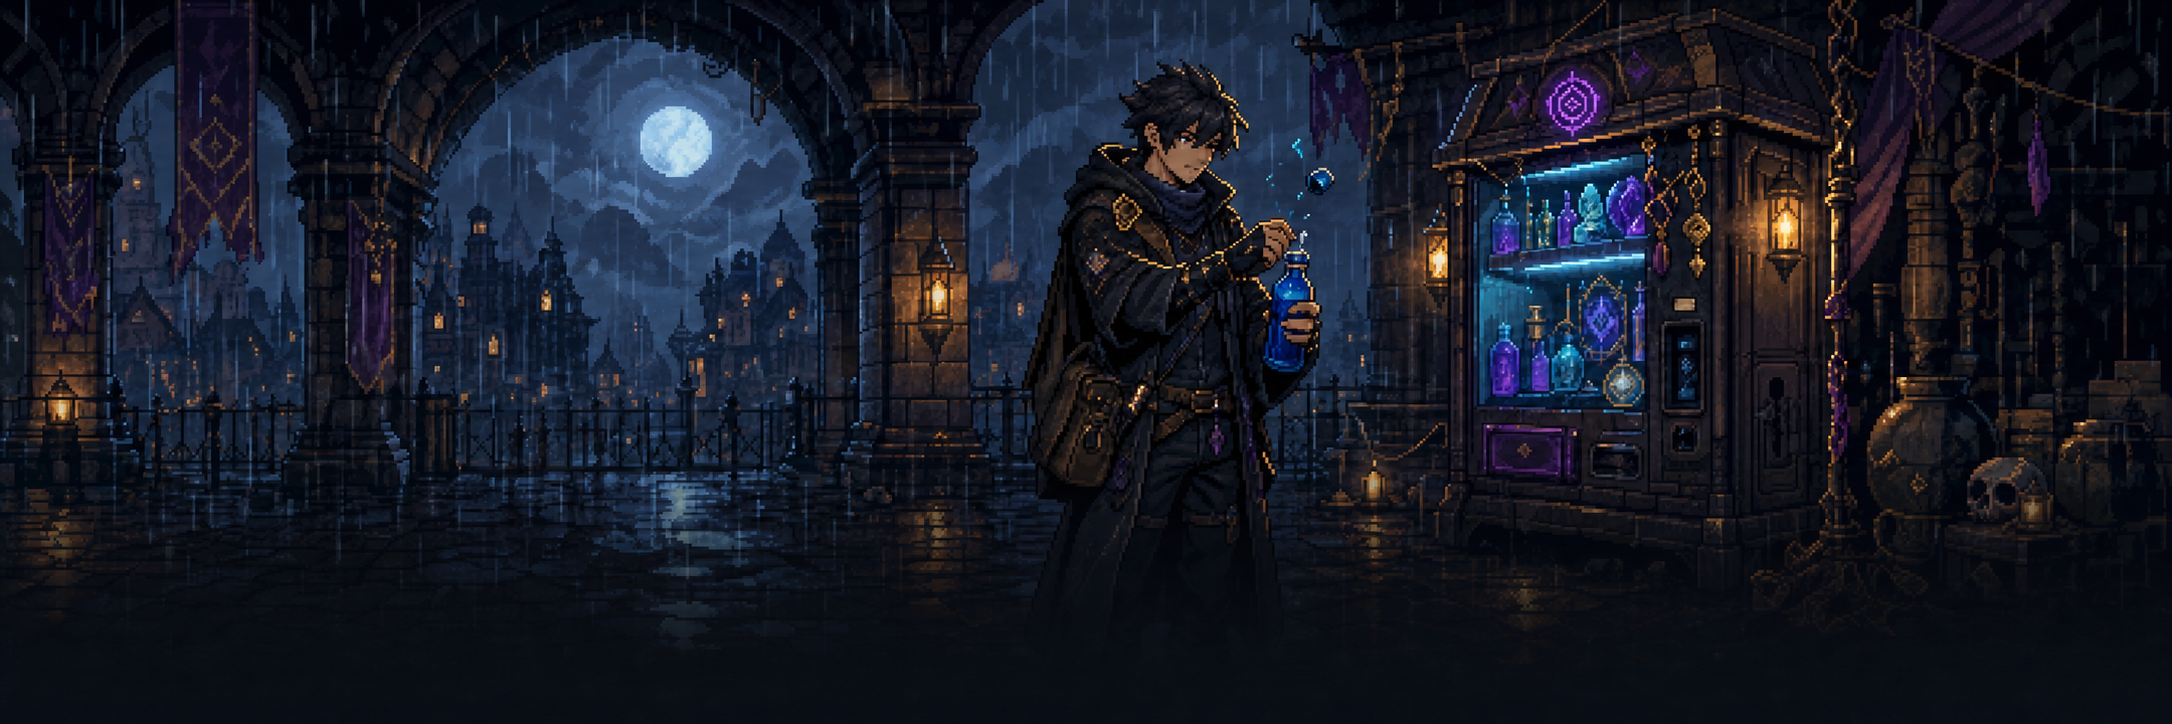
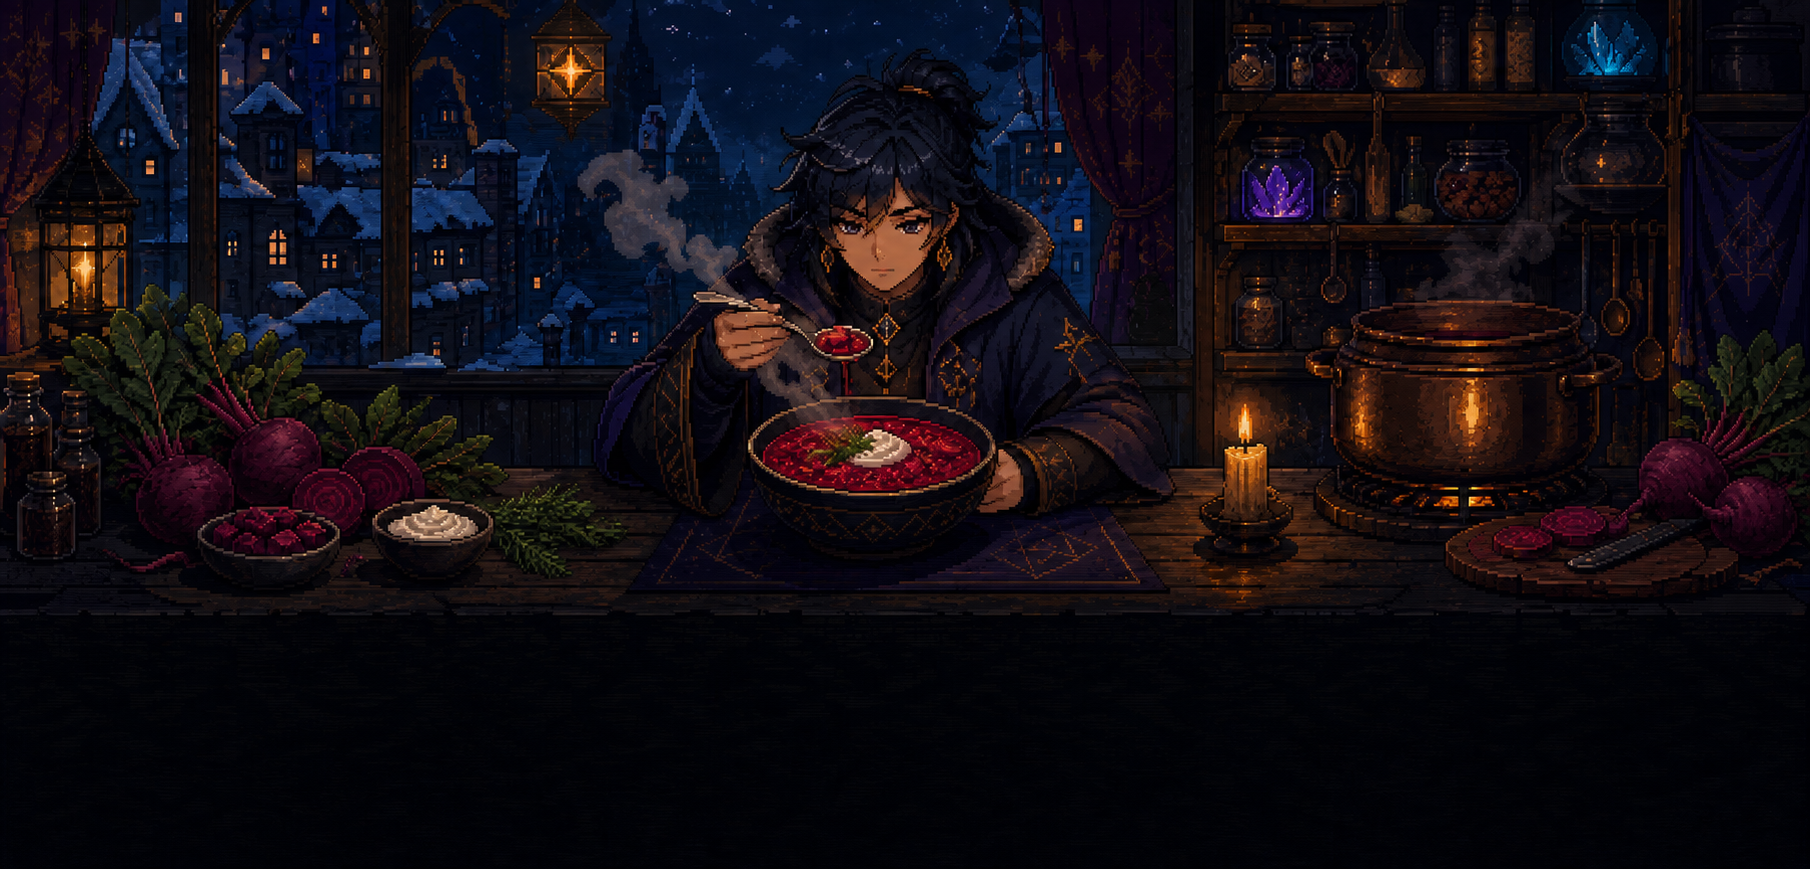
Record borscht soup expense

diff --git a/script.js b/script.js
@@ -117,8 +117,8 @@ function categoryIconFor(expense) {
 }
 
 const THEMES = [
-  { id: "kinance", label: "Kinance", banners: ["/public/theme-banners/kinance.png?v=10", "/public/theme-banners/kinance-frame-2.png?v=10"] },
-  { id: "kinance-moon", label: "Kinance Moon", banners: ["/public/theme-banners/kinance.png?v=10", "/public/theme-banners/kinance-frame-2.png?v=10"] },
+  { id: "kinance", label: "Kinance", banners: ["/public/theme-banners/kinance.png?v=11", "/public/theme-banners/kinance-frame-2.png?v=11"] },
+  { id: "kinance-moon", label: "Kinance Moon", banners: ["/public/theme-banners/kinance.png?v=11", "/public/theme-banners/kinance-frame-2.png?v=11"] },
   { id: "nier-automata", label: "NieR:Automata", banners: ["/public/theme-banners/nier-automata.png?v=2"] },
   { id: "tohsaka-rin", label: "Tohsaka Rin", banners: ["/public/theme-banners/tohsaka-rin.png?v=2"] },
 ];

diff --git a/app/page.tsx b/app/page.tsx
@@ -57,8 +57,8 @@ const RANK_INSIGNIA_SETS = [
 type RankInsigniaSetId = (typeof RANK_INSIGNIA_SETS)[number]["id"];
 
 const THEMES = [
-  { id: "kinance", label: "Kinance", banners: ["/theme-banners/kinance.png?v=10", "/theme-banners/kinance-frame-2.png?v=10"] },
-  { id: "kinance-moon", label: "Kinance Moon", banners: ["/theme-banners/kinance.png?v=10", "/theme-banners/kinance-frame-2.png?v=10"] },
+  { id: "kinance", label: "Kinance", banners: ["/theme-banners/kinance.png?v=11", "/theme-banners/kinance-frame-2.png?v=11"] },
+  { id: "kinance-moon", label: "Kinance Moon", banners: ["/theme-banners/kinance.png?v=11", "/theme-banners/kinance-frame-2.png?v=11"] },
   { id: "nier-automata", label: "NieR:Automata", banners: ["/theme-banners/nier-automata.png?v=2"] },
   { id: "tohsaka-rin", label: "Tohsaka Rin", banners: ["/theme-banners/tohsaka-rin.png?v=2"] },
 ] as const;

diff --git a/index.html b/index.html
@@ -9,7 +9,7 @@
     <link rel="icon" type="image/jpeg" href="/kinance-favicon.jpg" />
     <link rel="stylesheet" href="/styles.css?v=50" />
     <script src="/public/vendor/apexcharts.min.js?v=21" defer></script>
-    <script src="/script.js?v=56" defer></script>
+    <script src="/script.js?v=57" defer></script>
   </head>
   <body>
     <main>
@@ -78,7 +78,7 @@
         <section class="theme-banner" aria-label="Kinance theme artwork">
           <img
             id="theme-banner-image"
-            src="/public/theme-banners/kinance.png?v=10"
+            src="/public/theme-banners/kinance.png?v=11"
             alt="Kinance theme artwork"
             width="2048"
             height="683"
